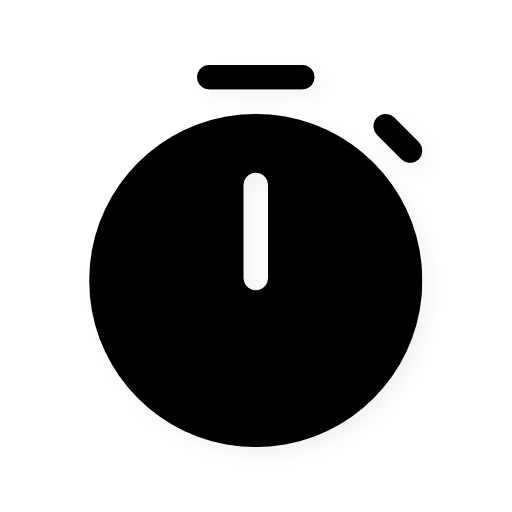
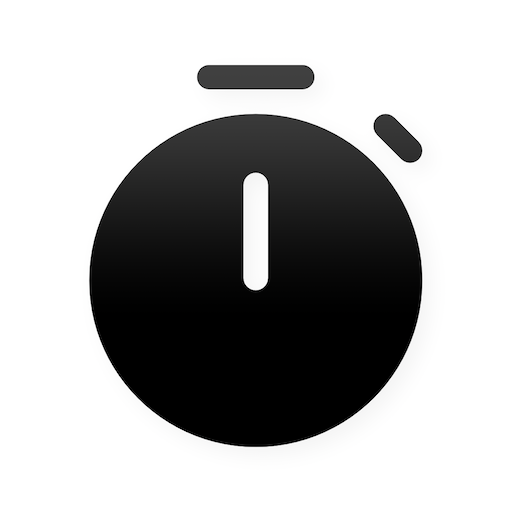
feat: add App Store badge and update branding assets in README

diff --git a/README.md b/README.md
@@ -1,65 +1,71 @@
-# 🚀 TimeMate
+# TimeMate
 
 <p align="center">
   <img src="https://raw.githubusercontent.com/homielab/timemate/main/docs/assets/icon.png" alt="TimeMate Icon" width="100" height="100" style="border-radius: 22%; border: 0.5px solid rgba(0,0,0,0.1);" />
 </p>
 
 <p align="center">
-  <a href='https://apps.apple.com/us/app/timemate-pomodoro-timer/id6754137356'>
-  <img src='https://upload.wikimedia.org/wikipedia/commons/3/3c/Download_on_the_App_Store_Badge.svg' alt='Download on the Mac App Store' />
-  </a>
+  <b>A lightweight, menu bar Pomodoro timer for macOS</b>
+</p>
+
+<p align="center">
+  <a href="https://homielab.com/en/page/timemate">Official Website</a> •
+  <a href="https://github.com/homielab/timemate/issues">Report Issue</a> •
+  <a href="https://ko-fi.com/homielab">Support Project</a>
 </p>
 
 ---
 
-TimeMate is a Pomodoro timer that lives in your menu bar. It helps you focus on your work and remember to take breaks.
+## Overview
 
-## 🧩 What is TimeMate?
+TimeMate is a clean, focused macOS application built around the Pomodoro Technique. Operating entirely from your menu bar, TimeMate helps you maintain deep focus and manage work-rest cycles without cluttering your desktop or Dock.
 
-TimeMate is a small, focused application for macOS built around the Pomodoro Technique. It lives entirely in your menu bar, providing a simple way to manage cycles of work and rest without adding clutter to your screen or Dock.
+By alternating focused work sprints (e.g., 25 minutes) with short breaks (5 minutes) and scheduled long breaks, TimeMate promotes sustained concentration while preventing mental fatigue.
 
-The idea is simple: work in focused sprints (e.g., 25 minutes), then take a short break (5 minutes). After a few cycles, you take a longer break. This rhythm is proven to help maintain concentration and prevent mental fatigue. TimeMate automates this process for you.
+## Key Features
 
-## 💡 Why I Built It
+- **Menu Bar Integration**: Access your timer instantly from the macOS menu bar with zero desktop clutter.
+- **Automated Workflow**: Seamlessly cycles between Focus, Short Break, and Long Break sessions.
+- **Custom Session Durations**: Easily adjust timer lengths to fit your personal workflow.
+- **Automatic Transitions**: Automatically switches to breaks to keep you in the flow state.
+- **Subtle Notifications**: Receive gentle alerts when sessions complete without disruptive alarms.
+- **Full-Screen Break Overlay**: Optional immersive break screen that encourages taking genuine rest.
+- **Keep Mac Awake**: Prevents your Mac from going to sleep during active focus sessions.
+- **Customizable Interface**: Control dock icon visibility, notification preferences, and overlay behavior.
+- **Multilingual Support**: Available in both English and Vietnamese.
+- **Native & Efficient**: Built specifically for macOS with minimal system resource usage.
 
-As a developer, I'm constantly switching between coding, research, and planning. Distractions are everywhere. I needed a tool to enforce focus, but the apps I found were either too complex, too distracting, or too resource-heavy.
-
-I wanted something that would just sit quietly in my menu bar, do its job, and stay out of my way. I couldn't find exactly what I was looking for, so I built TimeMate—first for myself, and now for anyone else who values simplicity and focus.
-
-## ⚙ Key Features
-
-- **Lives in Your Menu Bar**: Your timer is always a single click away, without ever cluttering your desktop.
-- **Simple Pomodoro Workflow**: Automatically cycles through Focus, Short Break, and Long Break sessions.
-- **Customizable Durations**: Easily adjust the length of each session to match how you work.
-- **Automatic Transitions**: Move from work to break without any manual clicks, keeping you in the flow.
-- **Gentle Notifications**: A subtle alert lets you know when a session is over, so you don't have to watch the clock.
-- **Clean & Minimal Design**: The interface is built to be functional and unobtrusive. It's a tool, not a distraction.
-- **Lightweight & Native**: Built for macOS, it's efficient and uses minimal system resources.
-- **Multi-Language**: Supports both English and Vietnamese.
-- **Full-Screen Break Overlay**: A beautiful, immersive overlay encourages you to take a real break (customizable).
-- **Keep Mac Awake**: Option to prevent your Mac from sleeping during focus sessions.
-- **Customizable Experience**: Toggle notifications, overlay, and dock icon visibility to suit your workflow.
-
-## 🚀 Why Use TimeMate?
-
-- **To Improve Focus**: It provides a clear structure for deep work, helping you ignore distractions and dedicate your attention to a single task.
-- **To Avoid Burnout:** The regular, enforced breaks help you rest and recharge, leading to a more sustainable and productive workday.
-- **For Simplicity**: There are no unnecessary features. TimeMate is built to do one thing and do it well. It’s a simple solution for a common problem.
-
-## 🖼 Screenshots
+## Screenshots
 
 <div class="not-prose" style="display: flex; gap: 1rem; margin-top: 1rem; flex-wrap: wrap;">
-  <img src="https://raw.githubusercontent.com/homielab/timemate/main/docs/screenshots/light.png" alt="timemate Light Mode" style="max-width: 300px; border-radius: 8px; box-shadow: 0 4px 8px rgba(0,0,0,0.1);" />
-  <img src="https://raw.githubusercontent.com/homielab/timemate/main/docs/screenshots/dark.png" alt="timemate Dark Mode" style="max-width: 300px; border-radius: 8px; box-shadow: 0 4px 8px rgba(0,0,0,0.1);" />
+  <img src="https://raw.githubusercontent.com/homielab/timemate/main/docs/screenshots/light.png" alt="TimeMate Light Mode" style="max-width: 300px; border-radius: 8px; box-shadow: 0 4px 8px rgba(0,0,0,0.1);" />
+  <img src="https://raw.githubusercontent.com/homielab/timemate/main/docs/screenshots/dark.png" alt="TimeMate Dark Mode" style="max-width: 300px; border-radius: 8px; box-shadow: 0 4px 8px rgba(0,0,0,0.1);" />
 </div>
 
-## 📫 Feedback & Contributions
+## Requirements & Building
 
-TimeMate was built to solve my personal workflow issue, but I’d love to improve it for others too.
-Feel free to [open an issue](https://github.com/homielab/timemate/issues) or suggest improvements!
+### Requirements
+- macOS 13.0 or later
+- Xcode 14.0 or later (for building from source)
 
-## 🤝 Support
+### Building from Source
+1. Clone the repository:
+   ```bash
+   git clone https://github.com/homielab/timemate.git
+   ```
+2. Open the Xcode project:
+   ```bash
+   open src/TimeMate.xcodeproj
+   ```
+3. Build and run the project (`Cmd + R`) in Xcode.
 
-If you found TimeMate helpful, please consider supporting its development:
+## Feedback & Contributions
 
-[<img height='36' style='border:0px;height:36px;' src='https://storage.ko-fi.com/cdn/kofi1.png?v=6' border='0' alt='Buy Me a Coffee at ko-fi.com' />](https://ko-fi.com/homielab)
+Contributions, bug reports, and feature requests are welcome. Feel free to open an issue or submit a pull request on the [GitHub repository](https://github.com/homielab/timemate/issues).
+
+## Support
+
+If you find TimeMate helpful and would like to support its ongoing development, consider buying a coffee:
+
+[<img height="36" style="border:0px;height:36px;" src="https://storage.ko-fi.com/cdn/kofi1.png?v=6" border="0" alt="Buy Me a Coffee at ko-fi.com" />](https://ko-fi.com/homielab)
+
